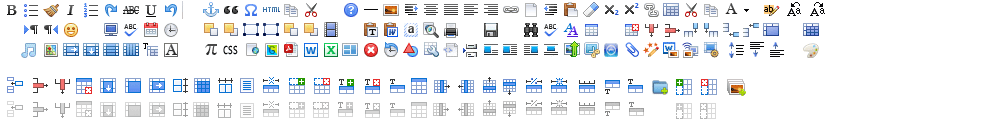
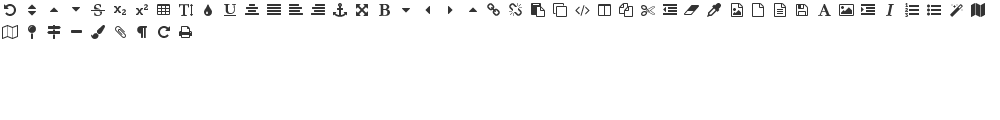
优化底层

diff --git a/madmin/plugin/ueditor/themes/ext.css b/madmin/plugin/ueditor/themes/ext.css
@@ -1,6 +1,6 @@
 /*可以在这里添加你自己的css*/
 * {
-    font-family: FontAwesome, Roboto, 'Segoe UI', Arial, 'Microsoft Yahei', sans-serif;
+    font-family: Roboto, 'Segoe UI', Arial, 'Microsoft Yahei', sans-serif;
 }
 
 .edui-default .edui-editor {
@@ -38,7 +38,6 @@
     text-align: center;
     line-height: 24px;
     font-size: 14px;
-    background-image: none;
 }
 
 .edui-default .edui-toolbar .edui-combox .edui-combox-body {
@@ -100,18 +99,9 @@
 .edui-default .edui-toolbar .edui-splitbutton-body .edui-arrow,
 .edui-default .edui-toolbar .edui-menubutton-body .edui-arrow,
 .edui-default .edui-toolbar .edui-combox-body .edui-arrow {
-    background: none;
-    height: auto;
-    line-height: 24px;
+    height: 24px;
     width: 12px;
     text-align: center;
-}
-
-.edui-default .edui-toolbar .edui-splitbutton-body .edui-arrow:before,
-.edui-default .edui-toolbar .edui-menubutton-body .edui-arrow:before,
-.edui-default .edui-toolbar .edui-combox-body .edui-arrow:before {
-    content: "\f0d7";
-    font-size: 12px;
 }
 
 .edui-default .edui-popup .edui-bordereraser,
@@ -185,11 +175,7 @@
     line-height: 24px;
     text-align: center;
     float: right;
-    background: none;
-}
-
-.edui-default .edui-hassubmenu .edui-arrow:before {
-    content: "\f0da"
+    background: url(default/images/icons.png) no-repeat;
 }
 
 .edui-default .edui-menuseparator {
@@ -213,7 +199,6 @@
     background: #fff;
     position: relative;
     cursor: move;
-    /*margin: 0 -1px;*/
 }
 
 .edui-default .edui-dialog-draghandle {
@@ -246,10 +231,6 @@
 
 .edui-default .edui-dialog-closebutton .edui-state-hover .edui-button-body {
     background: #eaedf1;
-}
-
-.edui-default .edui-dialog-closebutton .edui-button-body:before {
-    content: "\f00d";
 }
 
 .edui-default .edui-state-checked .edui-menuitem-body {
@@ -311,180 +292,158 @@
     text-align: center;
 }
 
-/*icon*/
-.edui-default .edui-for-source .edui-icon:before {
-    content: "\f121";
+.edui-default .edui-toolbar .edui-splitbutton-body .edui-arrow, .edui-default .edui-toolbar .edui-menubutton-body .edui-arrow {
+    background-position: -400px 2px;
 }
 
-.edui-default .edui-for-undo .edui-icon:before {
-    content: "\f0e2";
+.edui-default .edui-toolbar .edui-combox-body .edui-arrow {
+    background-position: -70px 4px;
 }
 
-.edui-default .edui-for-redo .edui-icon:before {
-    content: "\f01e";
+.edui-default .edui-hassubmenu .edui-arrow {
+    background-position: -438px 2px;
 }
 
-.edui-default .edui-for-bold .edui-icon:before {
-    content: "\f032"
+.edui-default .edui-for-source .edui-icon {
+    background-position: -570px 2px;
 }
 
-.edui-default .edui-for-italic .edui-icon:before {
-    content: "\f033"
+.edui-default .edui-for-undo .edui-icon {
+    background-position: 2px 2px;
 }
 
-.edui-default .edui-for-underline .edui-icon:before {
-    content: "\f0cd"
+.edui-default .edui-for-redo .edui-icon {
+    background-position: -152px -20px;
 }
 
-.edui-default .edui-for-strikethrough .edui-icon:before {
-    content: "\f0cc"
+.edui-default .edui-for-bold .edui-icon {
+    background-position: -372px 2px;
 }
 
-.edui-default .edui-for-superscript .edui-icon:before {
-    content: "\f12b"
+.edui-default .edui-for-italic .edui-icon {
+    background-position: -878px 2px;
 }
 
-.edui-default .edui-for-subscript .edui-icon:before {
-    content: "\f12c"
+.edui-default .edui-for-underline .edui-icon {
+    background-position: -218px 2px;
 }
 
-.edui-default .edui-for-removeformat .edui-icon:before {
-    content: "\f12d"
+.edui-default .edui-for-strikethrough .edui-icon {
+    background-position: -86px 2px;
 }
 
-.edui-default .edui-for-pasteplain .edui-icon:before {
-    content: "\f0f6"
+.edui-default .edui-for-superscript .edui-icon {
+    background-position: -130px 2px;
 }
 
-.edui-default .edui-for-forecolor .edui-icon:before {
-    content: "\f031"
+.edui-default .edui-for-subscript .edui-icon {
+    background-position: -108px 4px;
 }
 
-.edui-default .edui-for-insertorderedlist .edui-icon:before {
-    content: "\f0cb"
+.edui-default .edui-for-removeformat .edui-icon {
+    background-position: -679px 2px;
 }
 
-.edui-default .edui-for-insertunorderedlist .edui-icon:before {
-    content: "\f0ca"
+.edui-default .edui-for-formatmatch .edui-icon {
+    background-position: -86px -20px;
 }
 
-.edui-default .edui-for-cleardoc .edui-icon:before {
-    content: "\f016"
+.edui-default .edui-for-autotypeset .edui-icon {
+    background-position: -944px 1px;
 }
 
-.edui-default .edui-for-lineheight .edui-icon:before {
-    content: "\f034"
+.edui-default .edui-for-blockquote .edui-icon {
+    background-position: -130px -20px;
 }
 
-.edui-default .edui-for-fullscreen .edui-icon:before {
-    content: "\f0b2"
+.edui-default .edui-for-pasteplain .edui-icon {
+    background-position: -768px 2px;
 }
 
-.edui-default .edui-for-simpleupload .edui-icon:before {
-    content: "\f03e"
+.edui-default .edui-for-forecolor .edui-icon {
+    background-position: -812px 2px;
 }
 
-.edui-default .edui-for-justifyleft .edui-icon:before {
-    content: "\f036"
+.edui-default .edui-for-backcolor .edui-icon {
+    background-position: -196px 1px;
 }
 
-.edui-default .edui-for-justifycenter .edui-icon:before {
-    content: "\f037"
+.edui-default .edui-for-insertorderedlist .edui-icon {
+    background-position: -900px 2px;
 }
 
-.edui-default .edui-for-justifyright .edui-icon:before {
-    content: "\f038"
+.edui-default .edui-for-insertunorderedlist .edui-icon {
+    background-position: -922px 2px;
 }
 
-.edui-default .edui-for-justifyjustify .edui-icon:before {
-    content: "\f039"
+.edui-default .edui-for-cleardoc .edui-icon {
+    background-position: -746px 2px;
 }
 
-.edui-default .edui-for-link .edui-icon:before {
-    content: "\f0c1"
+.edui-default .edui-for-lineheight .edui-icon {
+    background-position: -174px 2px;
 }
 
-.edui-default .edui-for-unlink .edui-icon:before {
-    content: "\f127"
+.edui-default .edui-for-fullscreen .edui-icon {
+    background-position: -350px 2px;
 }
 
-.edui-default .edui-for-imageleft .edui-icon:before {
-    content: "\f03b"
+.edui-default .edui-for-justifyleft .edui-icon {
+    background-position: -284px 2px;
 }
 
-.edui-default .edui-for-imageright .edui-icon:before {
-    content: "\f03c"
+.edui-default .edui-for-justifycenter .edui-icon {
+    background-position: -240px 2px;
 }
 
-.edui-default .edui-for-music .edui-icon:before {
-    content: "\f001"
+.edui-default .edui-for-justifyright .edui-icon {
+    background-position: -306px 2px;
 }
 
-.edui-default .edui-for-insertvideo .edui-icon:before {
-    content: "\f03d"
+.edui-default .edui-for-justifyjustify .edui-icon {
+    background-position: -262px 2px;
 }
 
-.edui-default .edui-for-print .edui-icon:before {
-    content: "\f02f"
+.edui-default .edui-for-link .edui-icon {
+    background-position: -482px 2px;
 }
 
-.edui-default .edui-for-searchreplace .edui-icon:before {
-    content: "\f002"
+.edui-default .edui-for-unlink .edui-icon {
+    background-position: -503px 2px;
 }
 
-.edui-default .edui-for-drafts .edui-icon:before {
-    content: "\f1b2"
+.edui-default .edui-for-anchor .edui-icon {
+    background-position: -328px 2px;
 }
 
-.edui-default .edui-for-backcolor .edui-icon:before {
-    content: "\f043"
+.edui-default .edui-for-insertimage .edui-icon {
+    background-position: -835px 2px;
 }
 
-.edui-default .edui-for-formatmatch .edui-icon:before {
-    content: "\f1fc"
+.edui-default .edui-for-attachment .edui-icon {
+    background-position: -109px -20px;
 }
 
-.edui-default .edui-for-inserttable .edui-icon:before {
-    content: "\f0ce"
+.edui-default .edui-for-map .edui-icon {
+    background-position: -966px 2px;
 }
 
-.edui-default .edui-for-autotypeset .edui-icon:before {
-    content: "\f0d0"
+.edui-default .edui-for-insertframe .edui-icon {
+    background-position: -593px 2px;
 }
 
-.edui-default .edui-for-horizontal .edui-icon:before {
-    content: "\f068"
+.edui-default .edui-for-pagebreak .edui-icon {
+    background-position: -548px 2px;
 }
 
-.edui-default .edui-for-anchor .edui-icon:before {
-    content: "\f13d"
+.edui-default .edui-for-horizontal .edui-icon {
+    background-position: -64px -20px;
 }
 
-.edui-default .edui-for-map .edui-icon:before {
-    content: "\f279"
+.edui-default .edui-for-inserttable .edui-icon {
+    background-position: -151px 2px;
 }
 
-.edui-default .edui-for-attachment .edui-icon:before {
-    content: "\f0c6"
-}
-
-.edui-default .edui-for-blockquote .edui-icon:before {
-    content: "\f1dd"
-}
-
-.edui-default .edui-for-background .edui-icon:before {
-    content: "\f042"
-}
-
-.edui-default .edui-for-insertimage .edui-icon:before {
-    /*content: "\f00a"*/
-    content: "\f03e"
-}
-
-.edui-default .edui-for-insertframe .edui-icon:before {
-    content: "\f0db"
-}
-
-.edui-default .edui-for-pagebreak .edui-icon:before {
-    content: "\f24d"
+.edui-default .edui-for-print .edui-icon {
+    background-position: -174px -20px;
 }

diff --git a/madmin/application/views/info_single/update.html b/madmin/application/views/info_single/update.html
@@ -6,7 +6,6 @@
     <title><?=MYTITLE?></title>
     <base href="<?=base_url()?>">
     <link rel="stylesheet" href="plugin/bootstrap/css/bootstrap.min.css">
-    <link rel="stylesheet" href="plugin/fontawesome/css/font-awesome.min.css">
     <link rel="stylesheet" href="css/style.css">
 </head>
 <body>

diff --git a/madmin/plugin/ueditor/themes/iframe.css b/madmin/plugin/ueditor/themes/iframe.css
@@ -16,4 +16,7 @@ blockquote {
     font-size: 100%;
     background-color: #f1f1f1;
 }
-
+hr{
+    height: 0px;
+    border-top: none;
+}
